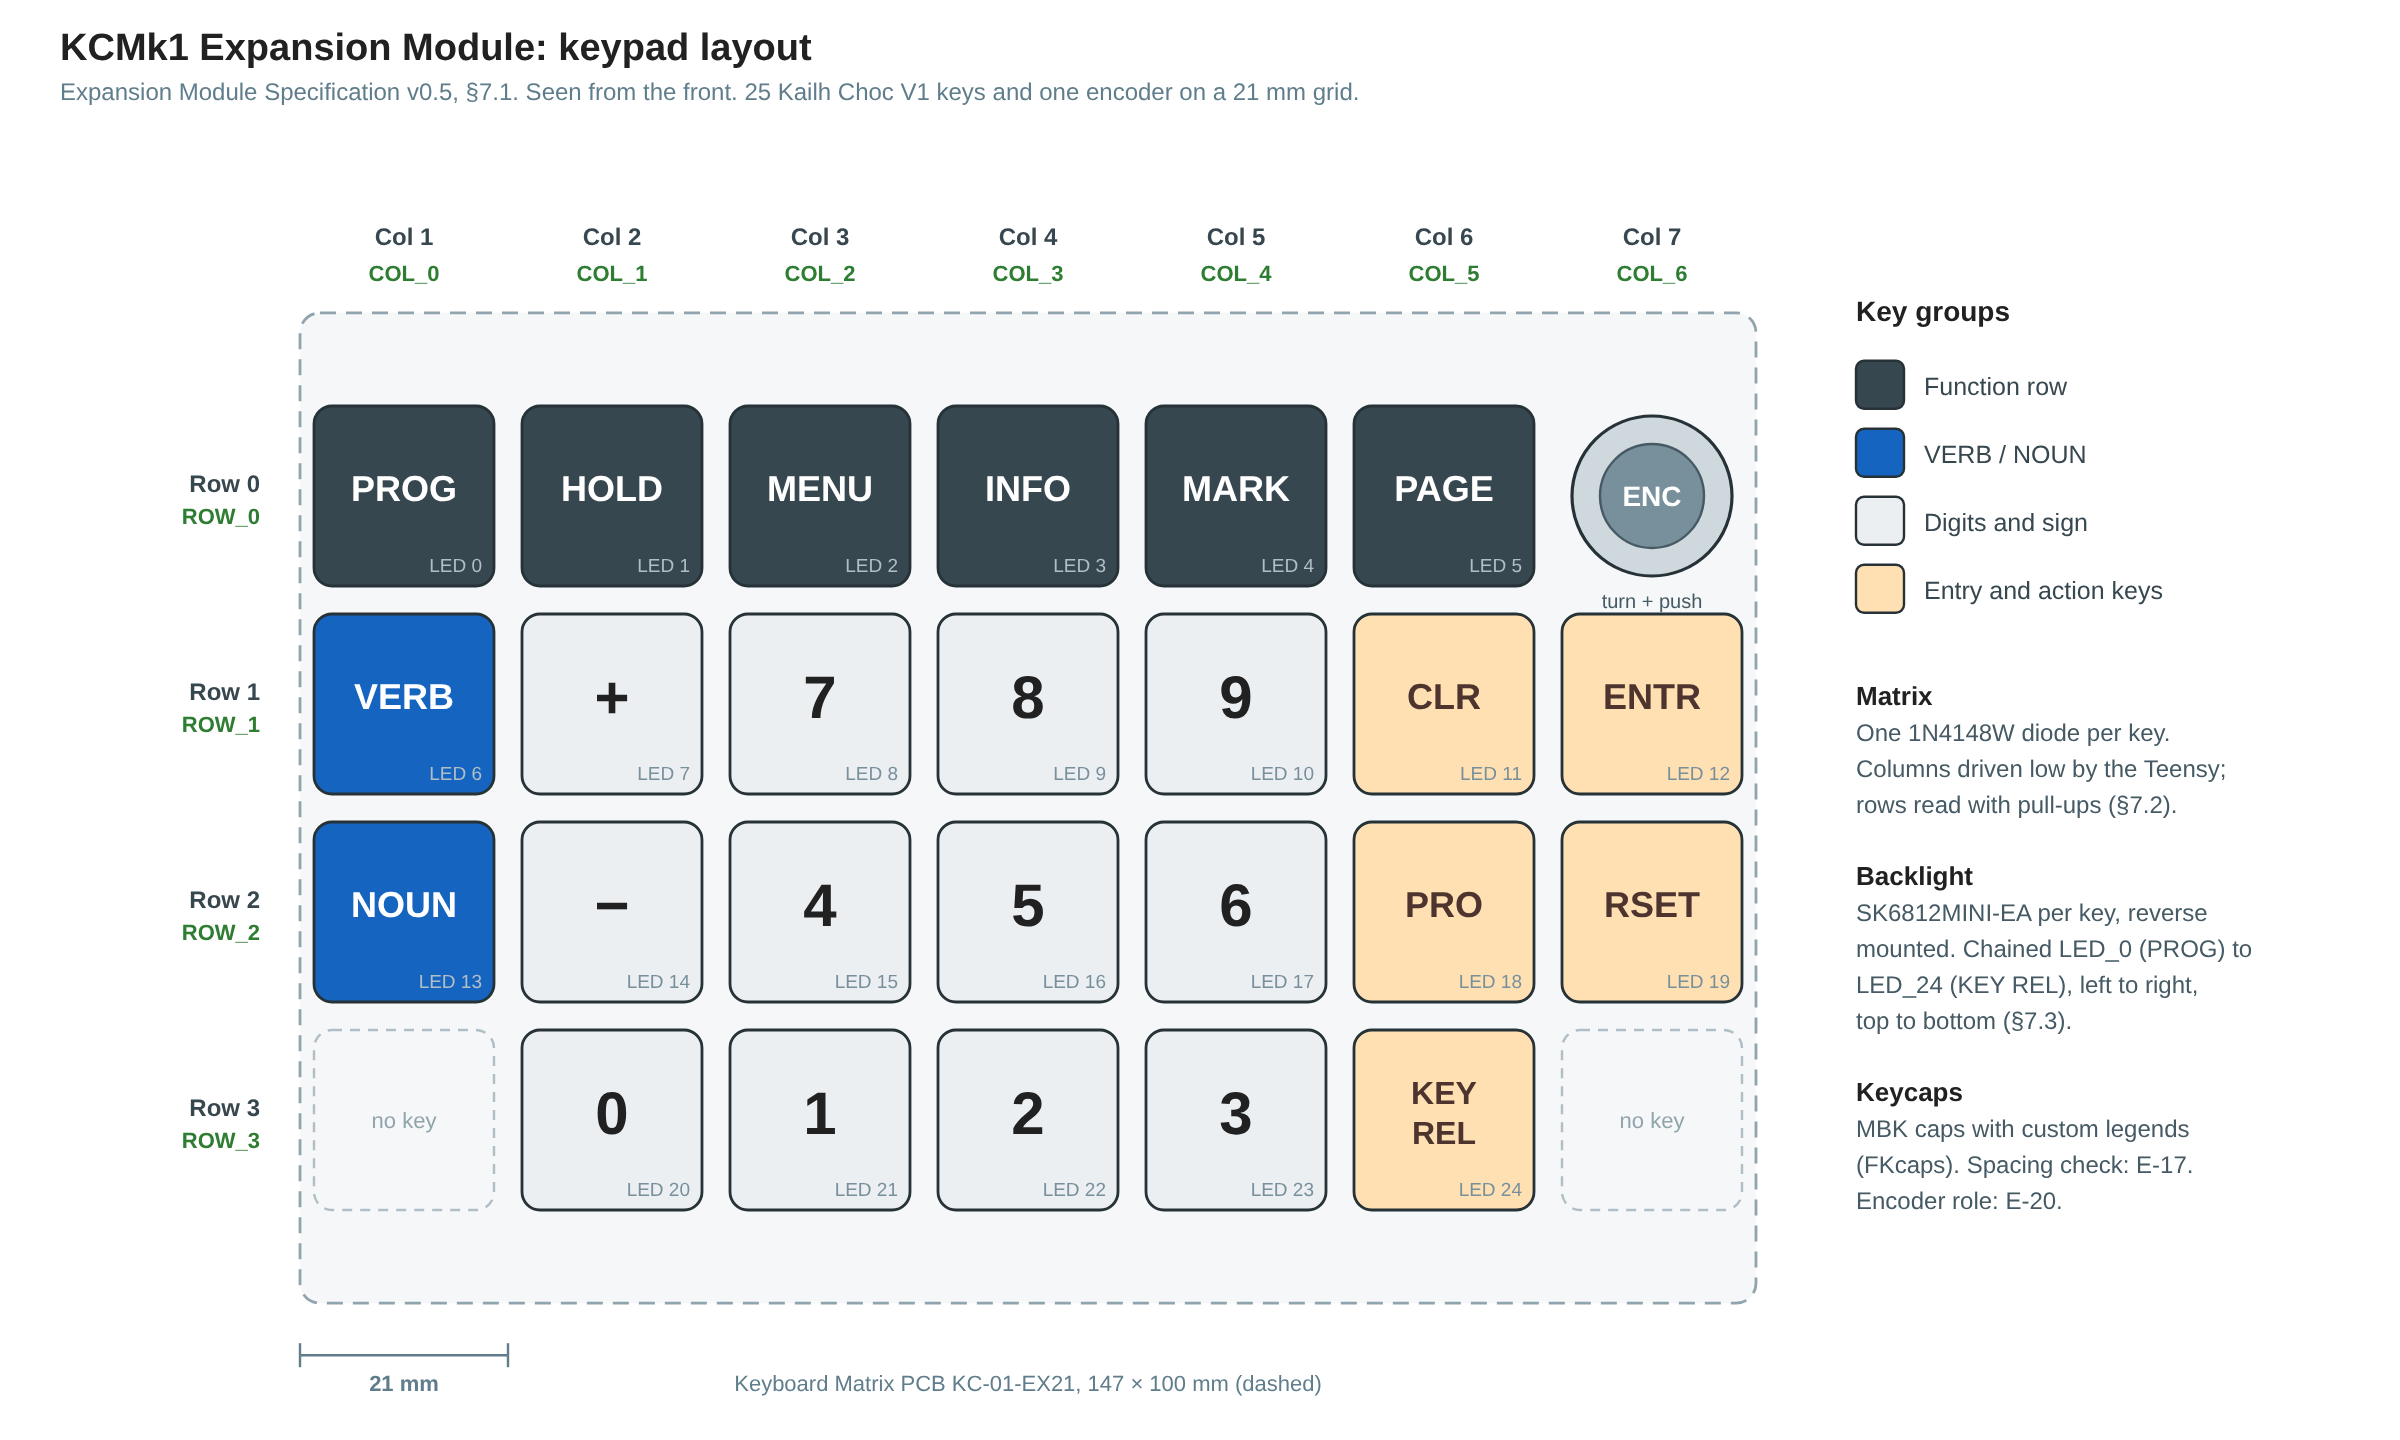
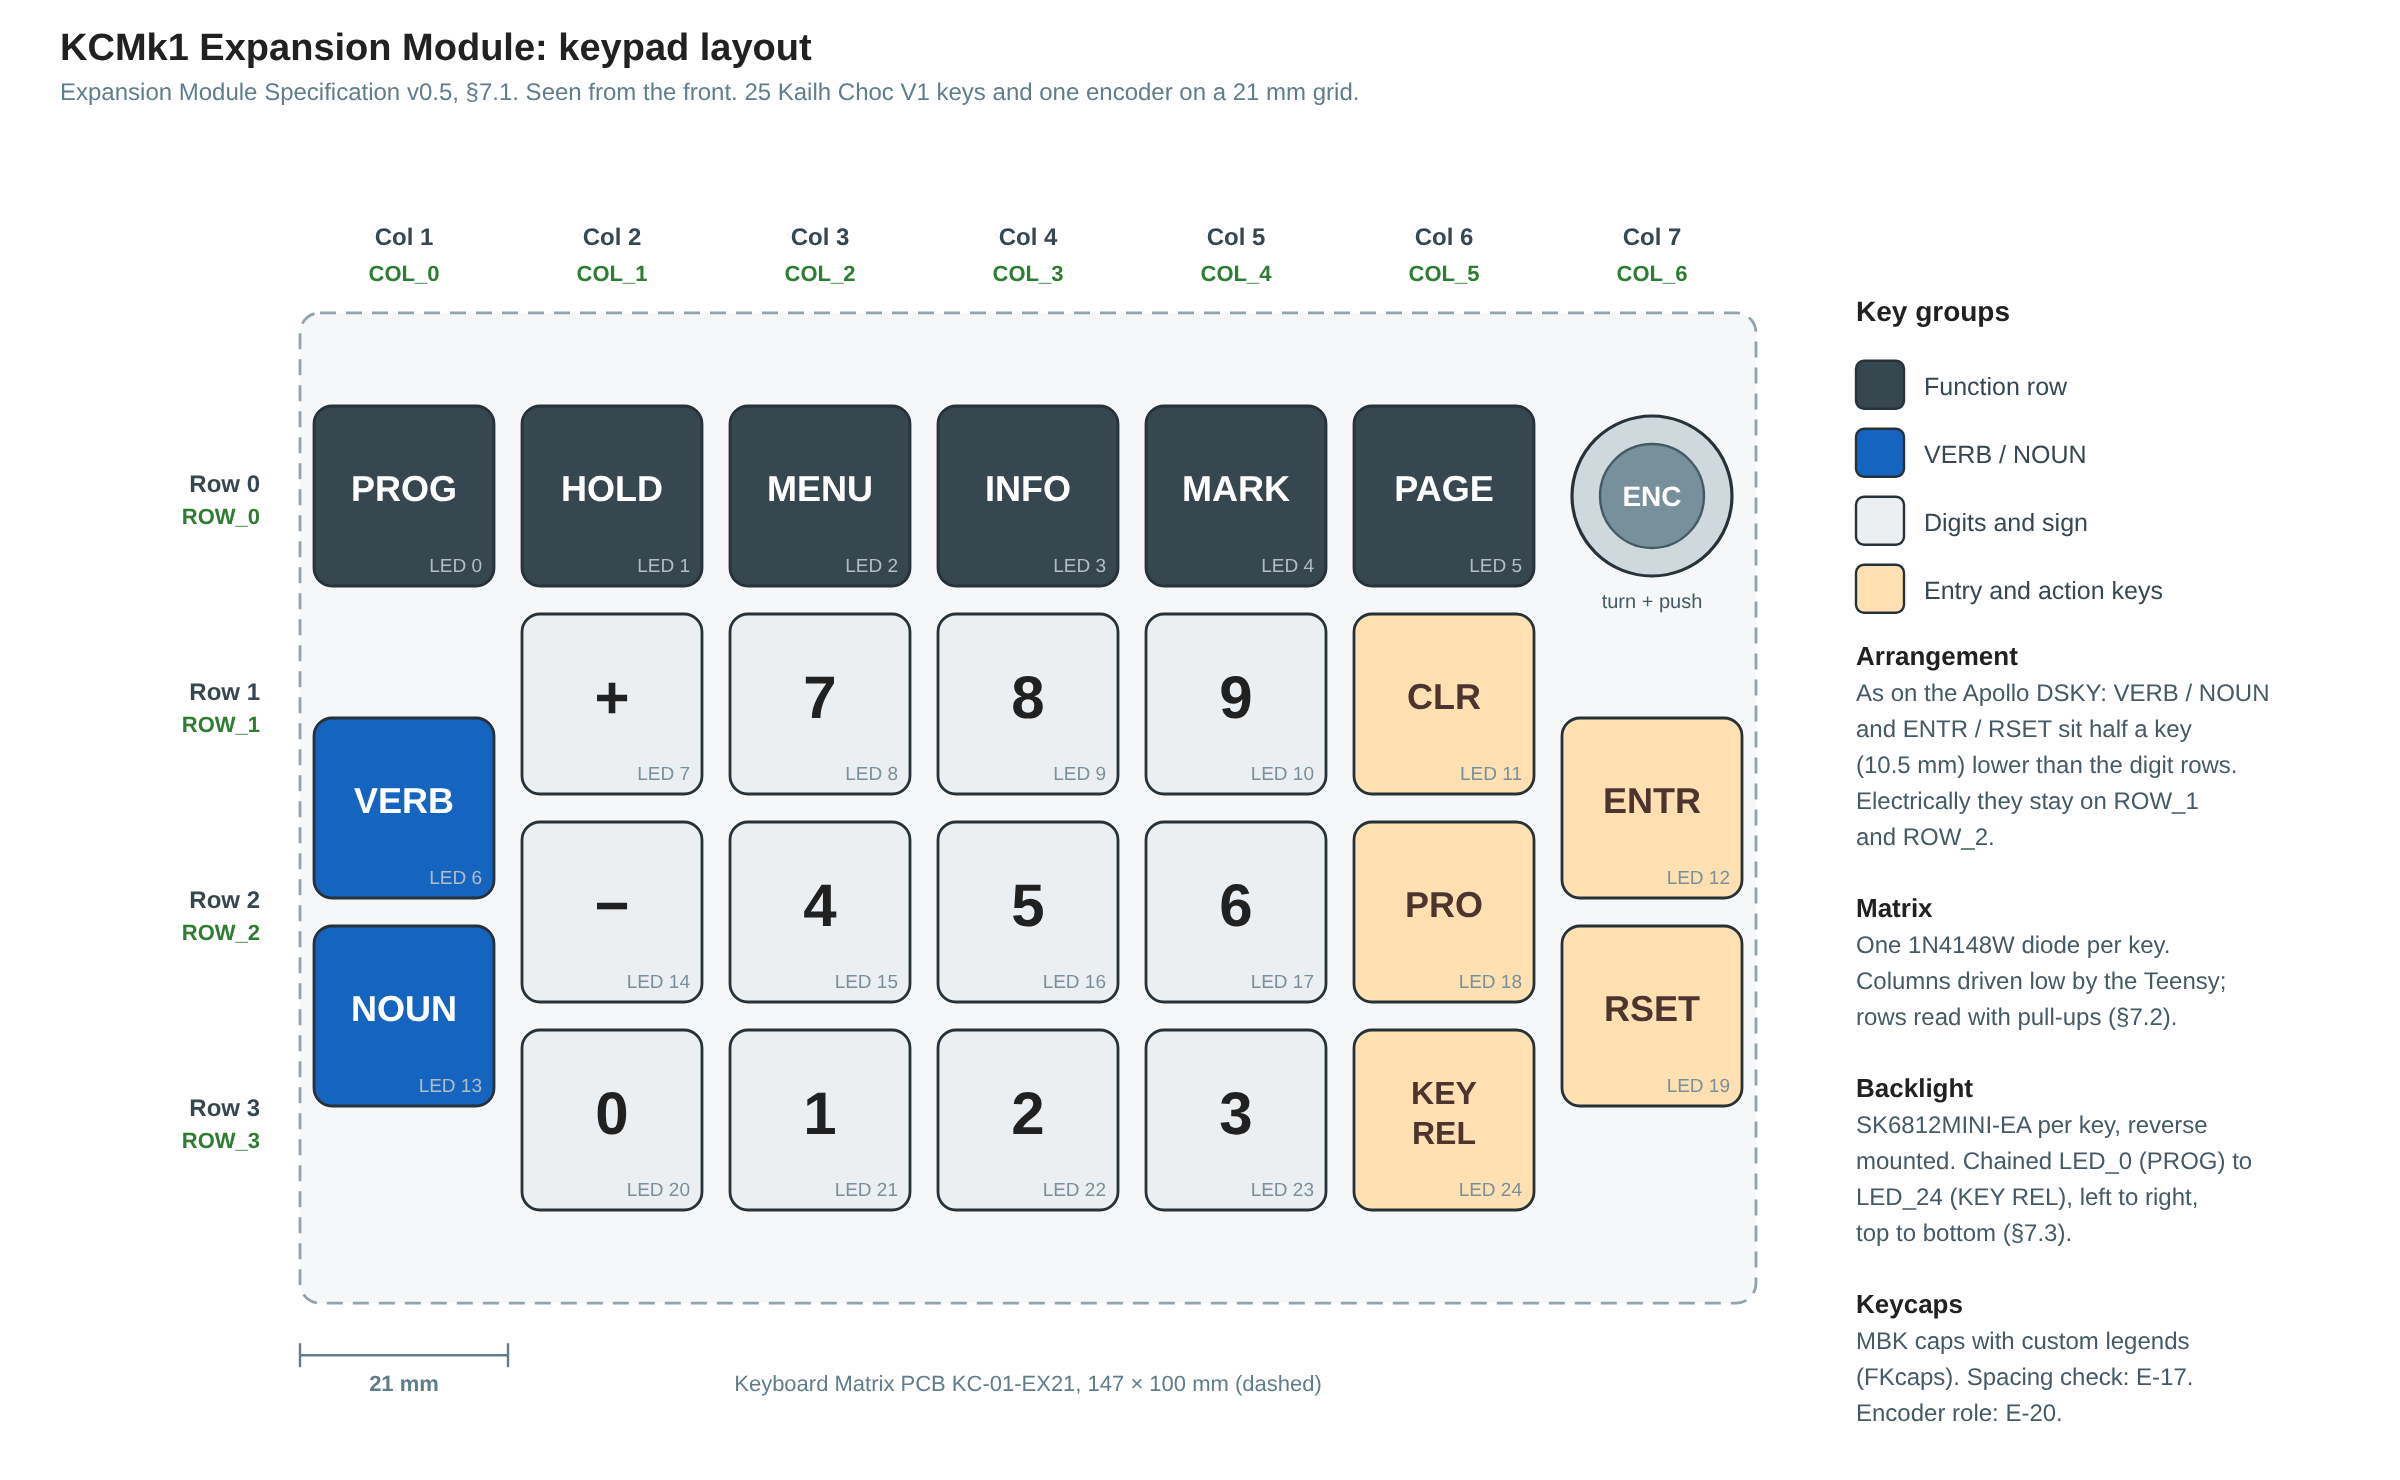
Expansion keypad: DSKY arrangement for VERB / NOUN and ENTR / RSET
As on the Apollo DSKY keyboard, VERB and NOUN (column 1) and ENTR and
RSET (column 7) sit half a key pitch (10.5 mm) lower than the digit
rows. They stay on ROW_1 and ROW_2 in the matrix. Figure 7-1 redrawn
and section 7.1 describes the arrangement; the "no key" corners are gone.

Claude-Session: https://claude.ai/code/session_01AfFKiY5R8Xk7jem2zcWdES

diff --git a/Documents/Developer/assets/gen_expansion_diagrams.py b/Documents/Developer/assets/gen_expansion_diagrams.py
@@ -217,7 +217,7 @@ def keypad():
     P = 104          # 21 mm grid pitch, ≈ 4.95 px per mm
     CAP = 90         # keycap face (MBK caps are 17.5 × 16.5 mm; drawn square for clarity)
     X0, Y0 = 150, 196
-    s = Svg(1200, 720)
+    s = Svg(1200, 740)
     s.t(30, 30, "KCMk1 Expansion Module: keypad layout", size=19, weight="bold", anchor="start")
     s.t(30, 50, "Expansion Module Specification v0.5, §7.1. Seen from the front. 25 Kailh Choc V1 keys and one encoder on a 21 mm grid.",
         size=12, anchor="start", fill="#607d8b")
@@ -240,6 +240,8 @@ def keypad():
     for row, col, leg, g in KEYS:
         x = X0 + (col - 1) * P + (P - CAP) / 2
         y = Y0 + row * P + (P - CAP) / 2
+        if col in (1, 7) and row in (1, 2):   # DSKY stagger: VERB / NOUN and ENTR / RSET sit half a key lower
+            y += P / 2
         bg, fg, _ = GROUP[g]
         s.rect(x, y, x + CAP, y + CAP, fill=bg, stroke="#263238", sw=1.4, r=9)
         size = 30 if len(leg[0]) == 1 else (18 if len(leg) == 1 else 16)
@@ -260,12 +262,6 @@ def keypad():
     s.t(ex, ey + 56, "turn + push", size=10, fill="#455a64")
 
     # Empty positions on row 3
-    for col in (1, 7):
-        x = X0 + (col - 1) * P + (P - CAP) / 2
-        y = Y0 + 3 * P + (P - CAP) / 2
-        s.rect(x, y, x + CAP, y + CAP, fill="none", stroke="#b0bec5", sw=1.2, r=9, dash="5 4")
-        s.t(x + CAP / 2, y + CAP / 2 + 4, "no key", size=11, fill="#90a4ae")
-
     # Dimension: 21 mm pitch
     dy = by0 + bh + 26
     s.o.append('<line x1="%.1f" y1="%.1f" x2="%.1f" y2="%.1f" stroke="#607d8b" stroke-width="1.2"/>' % (X0, dy, X0 + P, dy))
@@ -283,6 +279,13 @@ def keypad():
         s.rect(lx, yy, lx + 24, yy + 24, fill=bg, stroke="#263238", sw=1.2, r=4)
         s.t(lx + 34, yy + 17, name, size=12.5, anchor="start", fill="#37474f")
     notes = [
+        ("Arrangement", True),
+        ("As on the Apollo DSKY: VERB / NOUN", False),
+        ("and ENTR / RSET sit half a key", False),
+        ("(10.5 mm) lower than the digit rows.", False),
+        ("Electrically they stay on ROW_1", False),
+        ("and ROW_2.", False),
+        ("", False),
         ("Matrix", True),
         ("One 1N4148W diode per key.", False),
         ("Columns driven low by the Teensy;", False),
@@ -299,7 +302,7 @@ def keypad():
         ("(FKcaps). Spacing check: E-17.", False),
         ("Encoder role: E-20.", False),
     ]
-    yy = by0 + 196
+    yy = by0 + 176
     for text, head in notes:
         if text:
             s.t(lx, yy, text, size=13 if head else 12, weight="bold" if head else "normal",

diff --git a/Documents/Developer/Expansion_Module_Spec.md b/Documents/Developer/Expansion_Module_Spec.md
@@ -181,7 +181,9 @@ The keyboard follows the Apollo DSKY layout, with a function row added at the to
 
 *Figure 7-1: Keypad layout, seen from the front. The function row is on top and the DSKY rows below. Each key shows its matrix row and column and its place in the LED chain. Drawn by `assets/gen_expansion_diagrams.py`.*
 
-**Key count:** 25 switches and 1 rotary encoder. The encoder takes column 7 of row 0. Row 3 has no key in columns 1 and 7.
+**Key count:** 25 switches and 1 rotary encoder. The encoder takes column 7 of row 0.
+
+**DSKY arrangement:** as on the Apollo DSKY keyboard, VERB and NOUN (column 1) and ENTR and RSET (column 7) sit half a key pitch (10.5 mm) lower than the digit rows, so VERB and ENTR fall between the + and − rows, and NOUN and RSET between the − and 0 rows. In the matrix they stay on ROW_1 and ROW_2; only their position on the board moves.
 
 **Key functions.** The functions below follow D6. The detailed mapping, including which keys select a mode and how a setpoint is chosen, is open item E-11.
 
